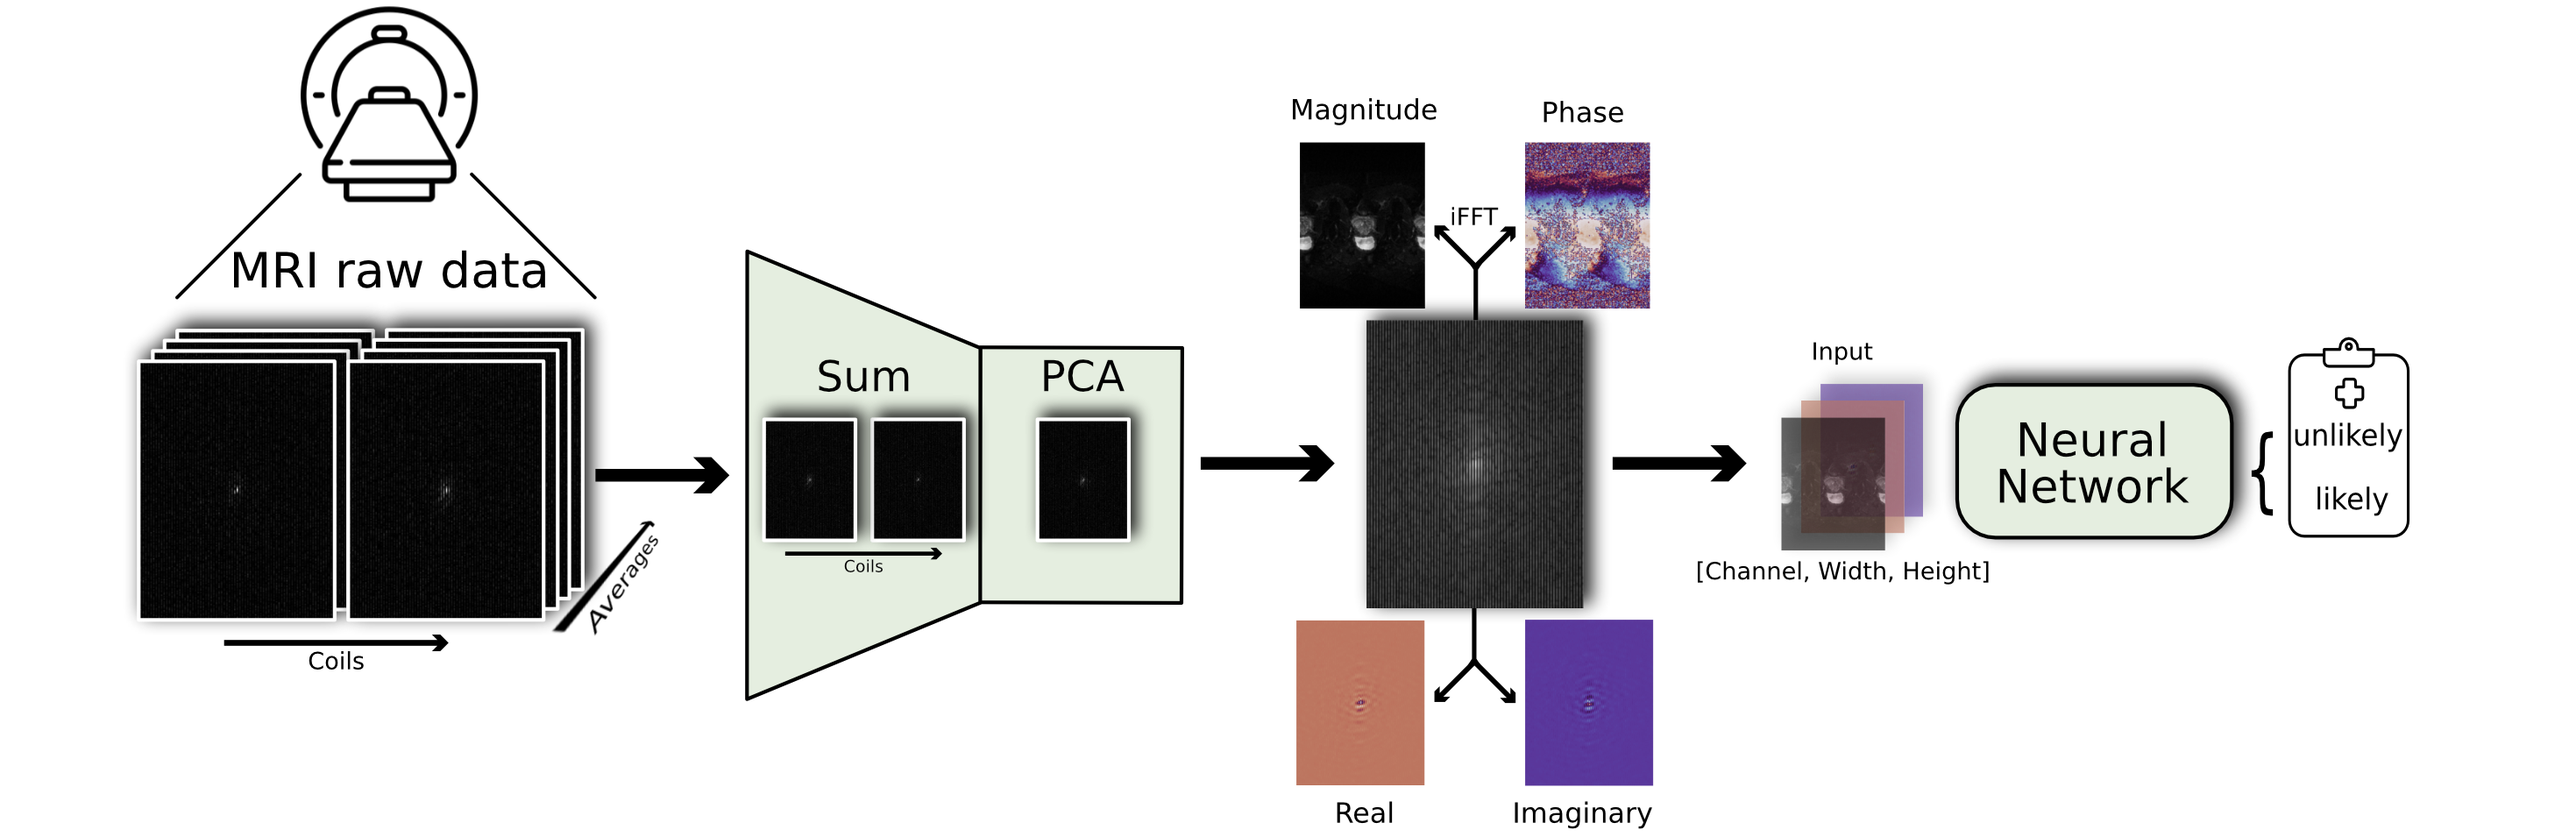
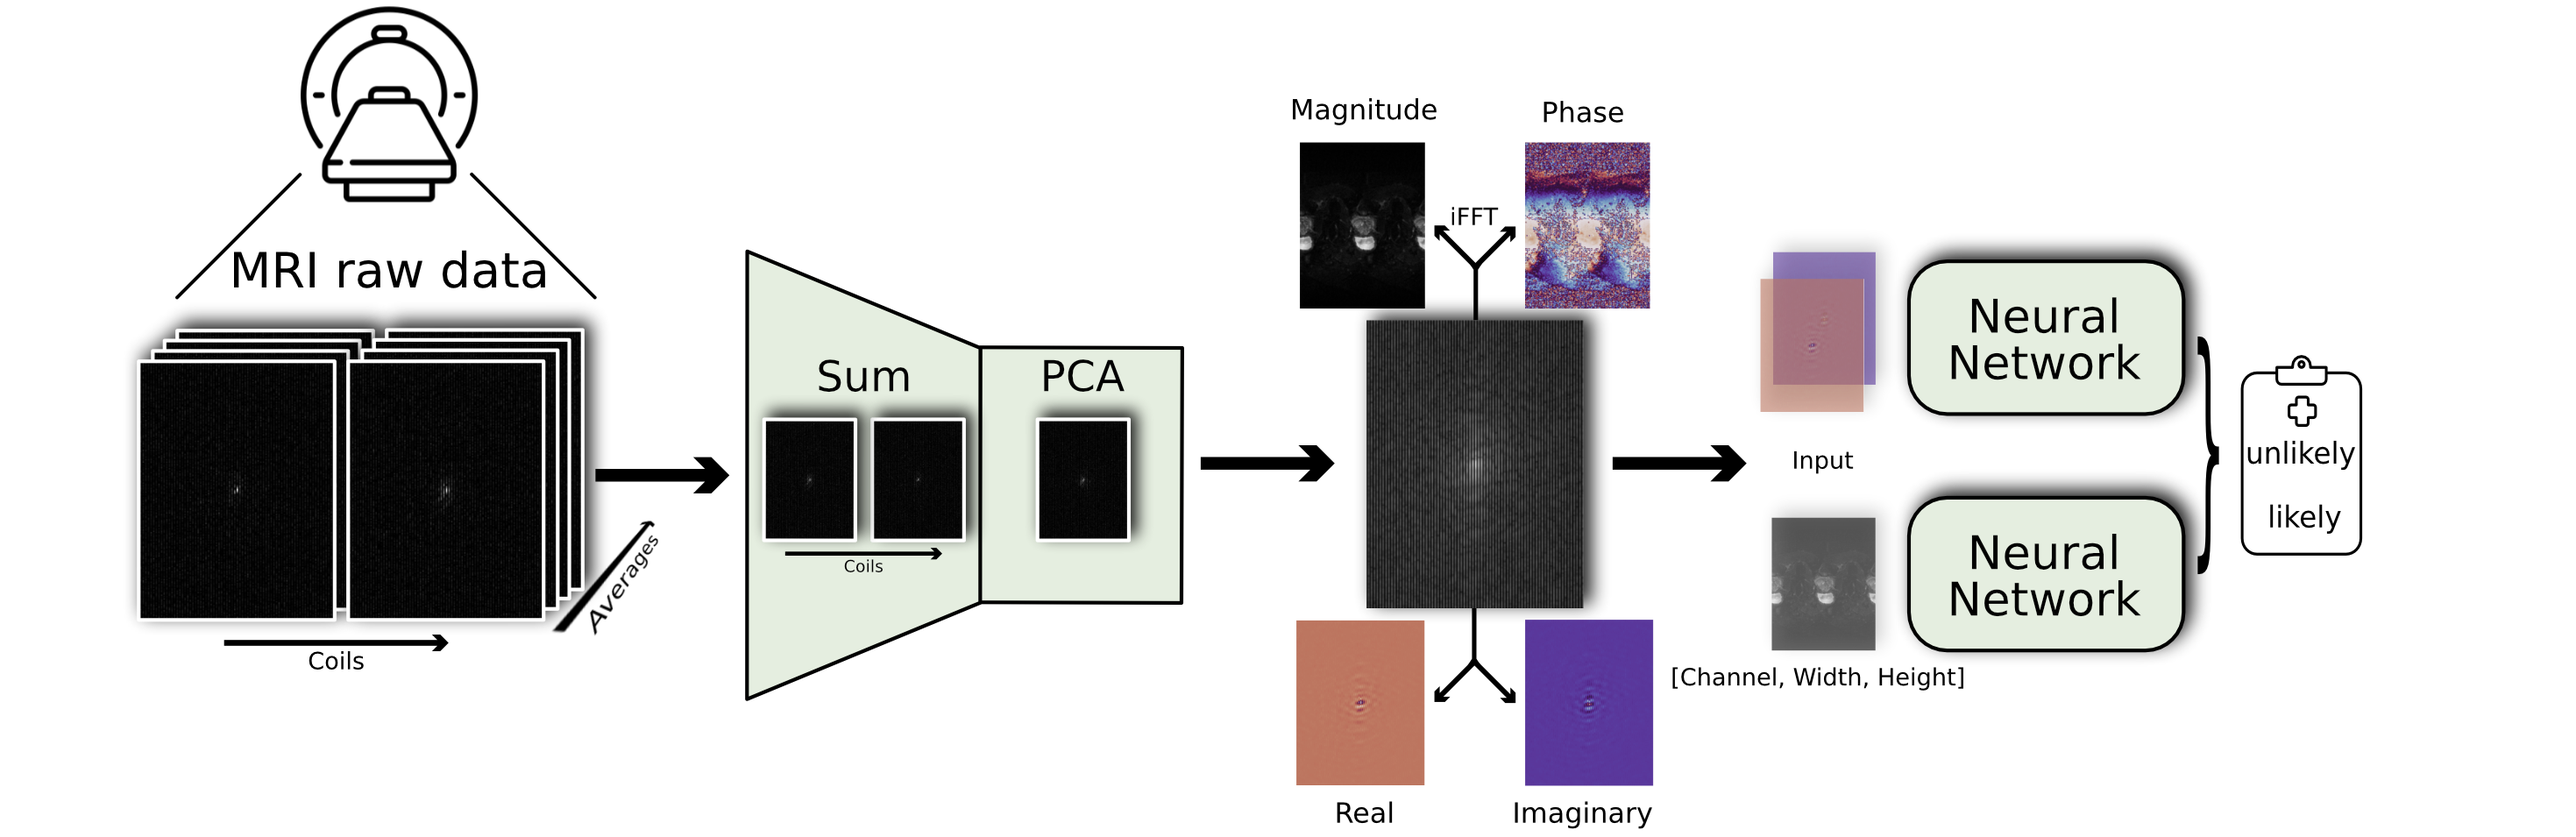
feat: split model

Changed region(s): [[0.6502, 0.2733, 0.9289, 0.8199]]

diff --git a/src/model.py b/src/model.py
@@ -3,10 +3,27 @@ import torch.nn as nn
 
 
 class ConvNext(nn.Module):
-    def __init__(self, in_channels: int, num_classes: int) -> None:
+    def __init__(self, in_channels: int, num_classes: int, split: bool) -> None:
         super(ConvNext, self).__init__()
 
-        self.encoder = timm.create_model(
+        self.split = split
+
+        if split:
+            self.encoder_i = timm.create_model(
+            "convnext_atto",
+            pretrained=True,
+            in_chans=1,
+            num_classes=num_classes,
+        )
+
+            self.encoder_k = timm.create_model(
+            "convnext_atto",
+            pretrained=True,
+            in_chans=2,
+            num_classes=num_classes,
+        )
+        else:
+            self.encoder = timm.create_model(
             "convnext_atto",
             pretrained=True,
             in_chans=in_channels,
@@ -15,4 +32,11 @@ class ConvNext(nn.Module):
 
     def forward(self, x):
 
-        return self.encoder(x)
+        if self.split:
+            x_i = self.encoder_i(x[:, :2,...].float())
+            x_k = self.encoder_k(x[:, 2:, ...].float())
+
+            return (x_i + x_k) / 2
+        
+        else:
+            return self.encoder(x)

diff --git a/README.md b/README.md
@@ -33,7 +33,7 @@ This repository provides the full pipeline, from data preparation, including pri
 ## Getting started
 1. Clone repository:
    
-       git clone https://github.com/TIO-IKIM/tumor-prediction-on-undersampled-MRI-kSpace.git
+       git clone https://github.com/TIO-IKIM/tumor-likelihood-estimation-on-MRI-prostate-data-by-utilizing-k-Space-information.git
    
 2. Create a conda environment with Python version 3.11.2 and install the necessary dependencies:
    
